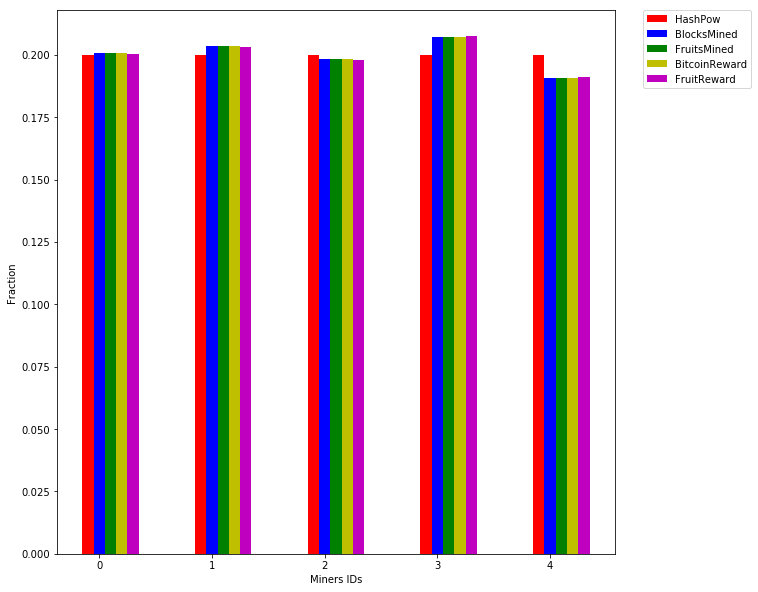
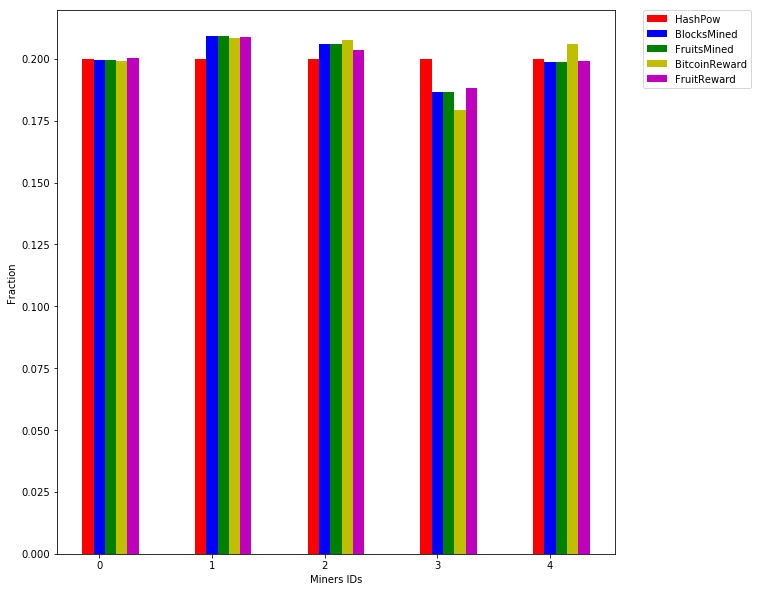
added plot for fairness metric

diff --git a/createPlots.py b/createPlots.py
@@ -68,8 +68,6 @@ def plotMinerRewards(filename):
     with open(filename + "fairnessMetric", "a") as myfile:
         myfile.write(str(unFairnessBitcoin) + "," + str(unFairnessFruit) + "\n")
 
-
-
 def plotStatistics(filename):
     """ file format: (roundNum, nUnprocessed, nProcessed) """
     filename += "_stats"
@@ -104,5 +102,21 @@ def plotStatistics(filename):
     plt.savefig(filename + "_txs.png")
     plt.close()
 
-with open("test.txt", "a") as myfile:
-    myfile.write("appended text")
+def plotFairnessMetric(filename):
+    """ file format: (FairnessMetricBitcoin, FairnessMetricFruitchain) """
+    log = np.loadtxt(filename + "fairnessMetric", delimiter=",")
+    fairnessBitcoin = []
+    fairnessFruit = []
+
+    for item in log:
+        fairnessBitcoin.append(item[0])
+        fairnessFruit.append(item[1])
+
+    plt.figure(figsize=(10,10))
+    plt.plot(fairnessBitcoin, '-y', label='Bitcoin')
+    plt.plot(fairnessFruit, '-g', label='Fruitchain')
+    plt.xlabel("Reward variance")
+    plt.ylabel("Value of metric")
+    plt.legend()
+    plt.savefig(filename + "FairnessMetric.png")
+    plt.close()

diff --git a/simulator.py b/simulator.py
@@ -25,7 +25,7 @@ class Simulator:
         self.k = k
         self.avgOver = avgOver
 
-        self.log = defaultdict(list) #<K, V> = ID of node, its statistics
+        self.log = defaultdict(list) # <K, V> = ID of node, its statistics
 
     def initializeSim(self):
         self.environment = Environment(self.p, self.pF, self.txRate, self.k) # Environment selects a leader each round for mining

diff --git a/dataStructures.py b/dataStructures.py
@@ -47,7 +47,7 @@ class Block:
         self.mineRound = mineRound
         self.fruits = fruits
         self.txs = txs
-        self.totalFee = 10 #sum of fees in txs set
+        self.totalFee = random.randint(1, 10**3) #sum of fees in txs set
         self.height = 1 # index + 1
 
         self.nFruits = len(fruits)

diff --git a/fruitchain.py b/fruitchain.py
@@ -186,7 +186,6 @@ class Node:
         '''
         Append the mined block to chain, process fruits in it by updating their
         includeRound and contBlockHeight params. and broadcast the block
-
         '''
         # 1. Do tx selection
         freshFruits = self.getFreshFruits()
